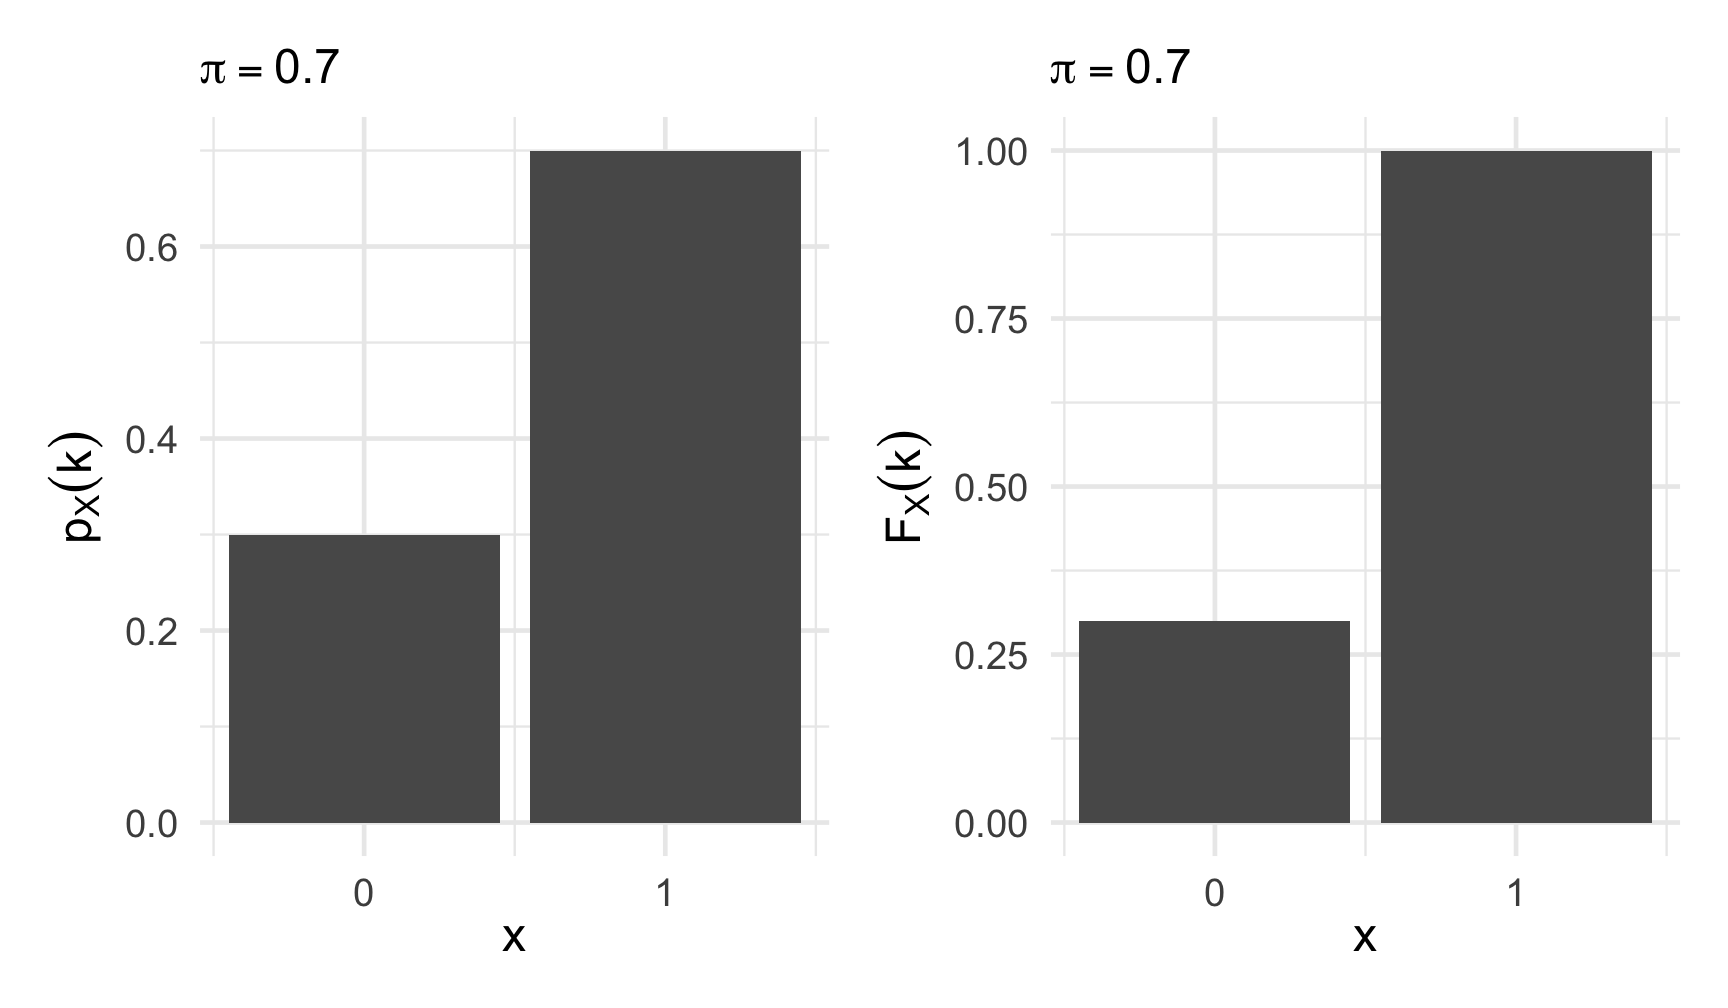
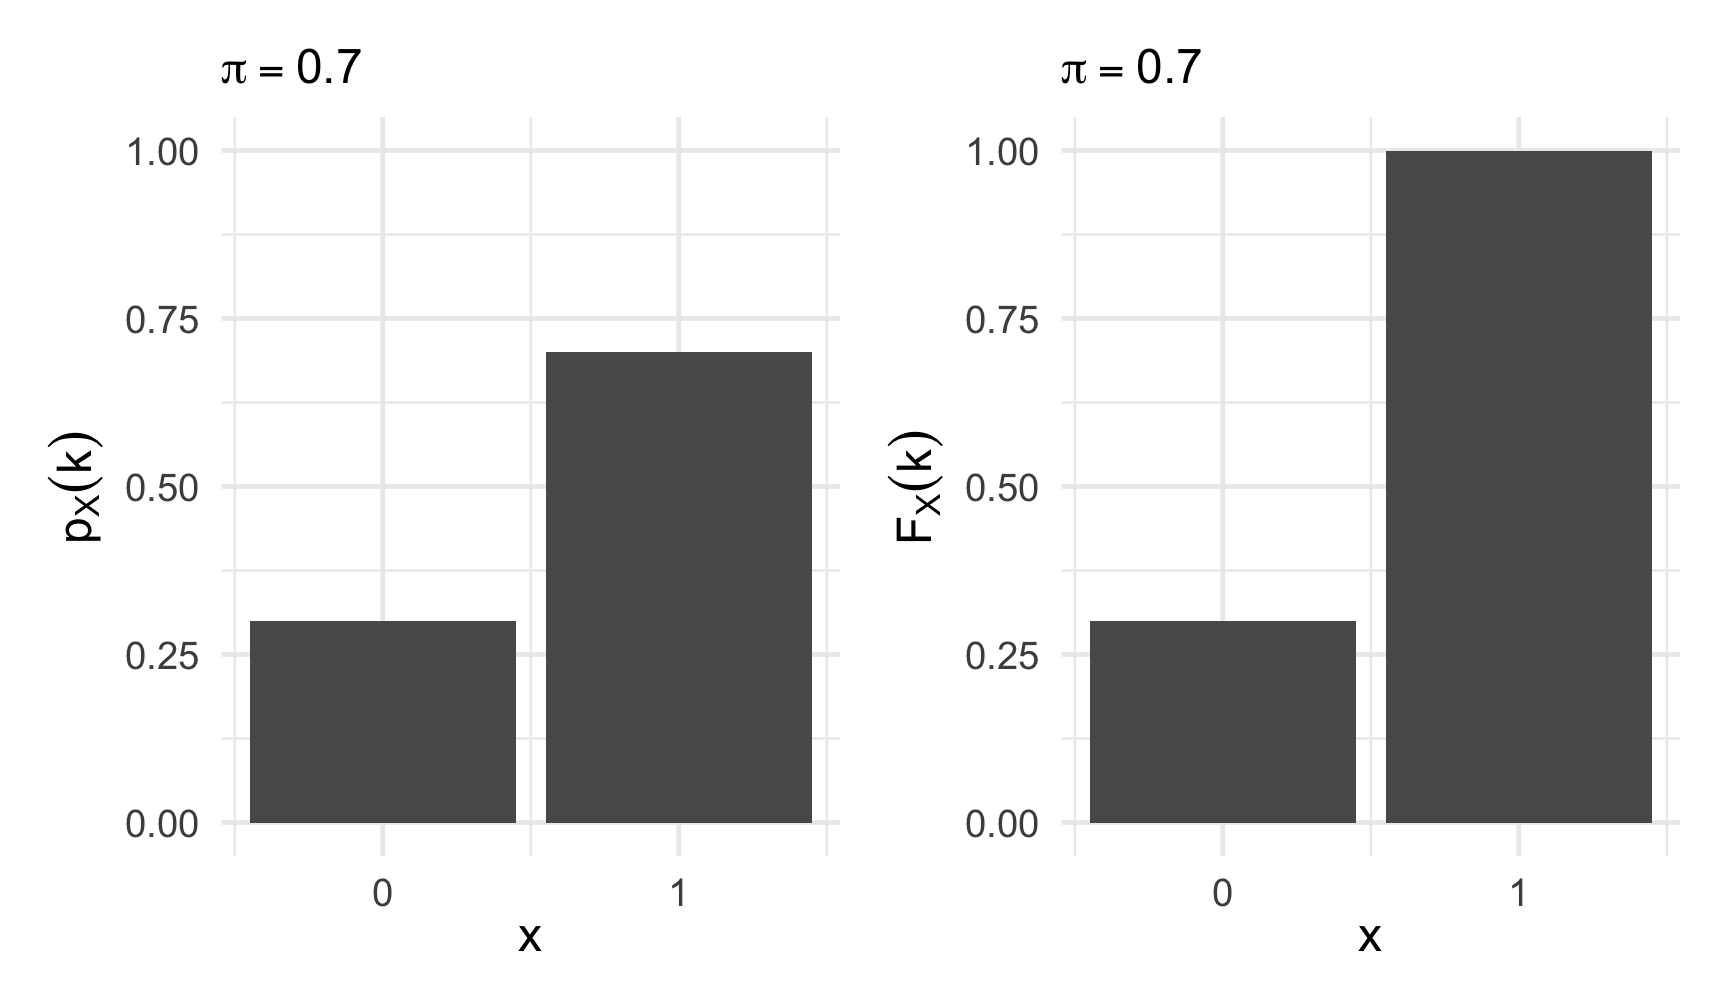
fix plot limits pdfs

diff --git a/docs/10-discrete-random-vars.html b/docs/10-discrete-random-vars.html
@@ -780,7 +780,7 @@ Let `\(X\)` be a random variable with PMF `\(p_X\)`, and let `\(g(X)\)` be a fun
   * Probability for a particular value
 * CDF: cumulative distribution function
   * ADD UP VALUES (akin to a sum)
-* Distributions:
+* **Distributions**:
   * Bernoulli: 
       * pmf: `\(1-p\)` for k = 0; `\(p\)` for `\(k = 1\)`
       * mean `\(p\)`, var `\(p(1-p)\)`
